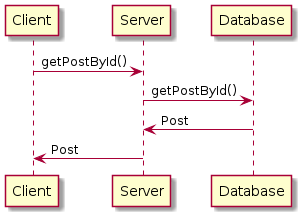
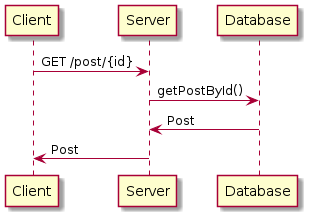
Add main endpoints in server-client model
Adding main endpoints that will be available in server with exception of
the endpoint related with login and POST requests, that still need to be
discussed.

diff --git a/doc/backend_db/README.md b/doc/backend_db/README.md
@@ -55,3 +55,7 @@ the server returns with only the target's public data.
  the server to lookup for a post by an id, `postId`.
 
 ![assets/img/get-post.png](../../assets/img/get-post.png)
+
+- To get all posts, you do not pass an `id`.
+
+![assets/img/get-all-posts.png](../../assets/img/get-all-posts.png)
